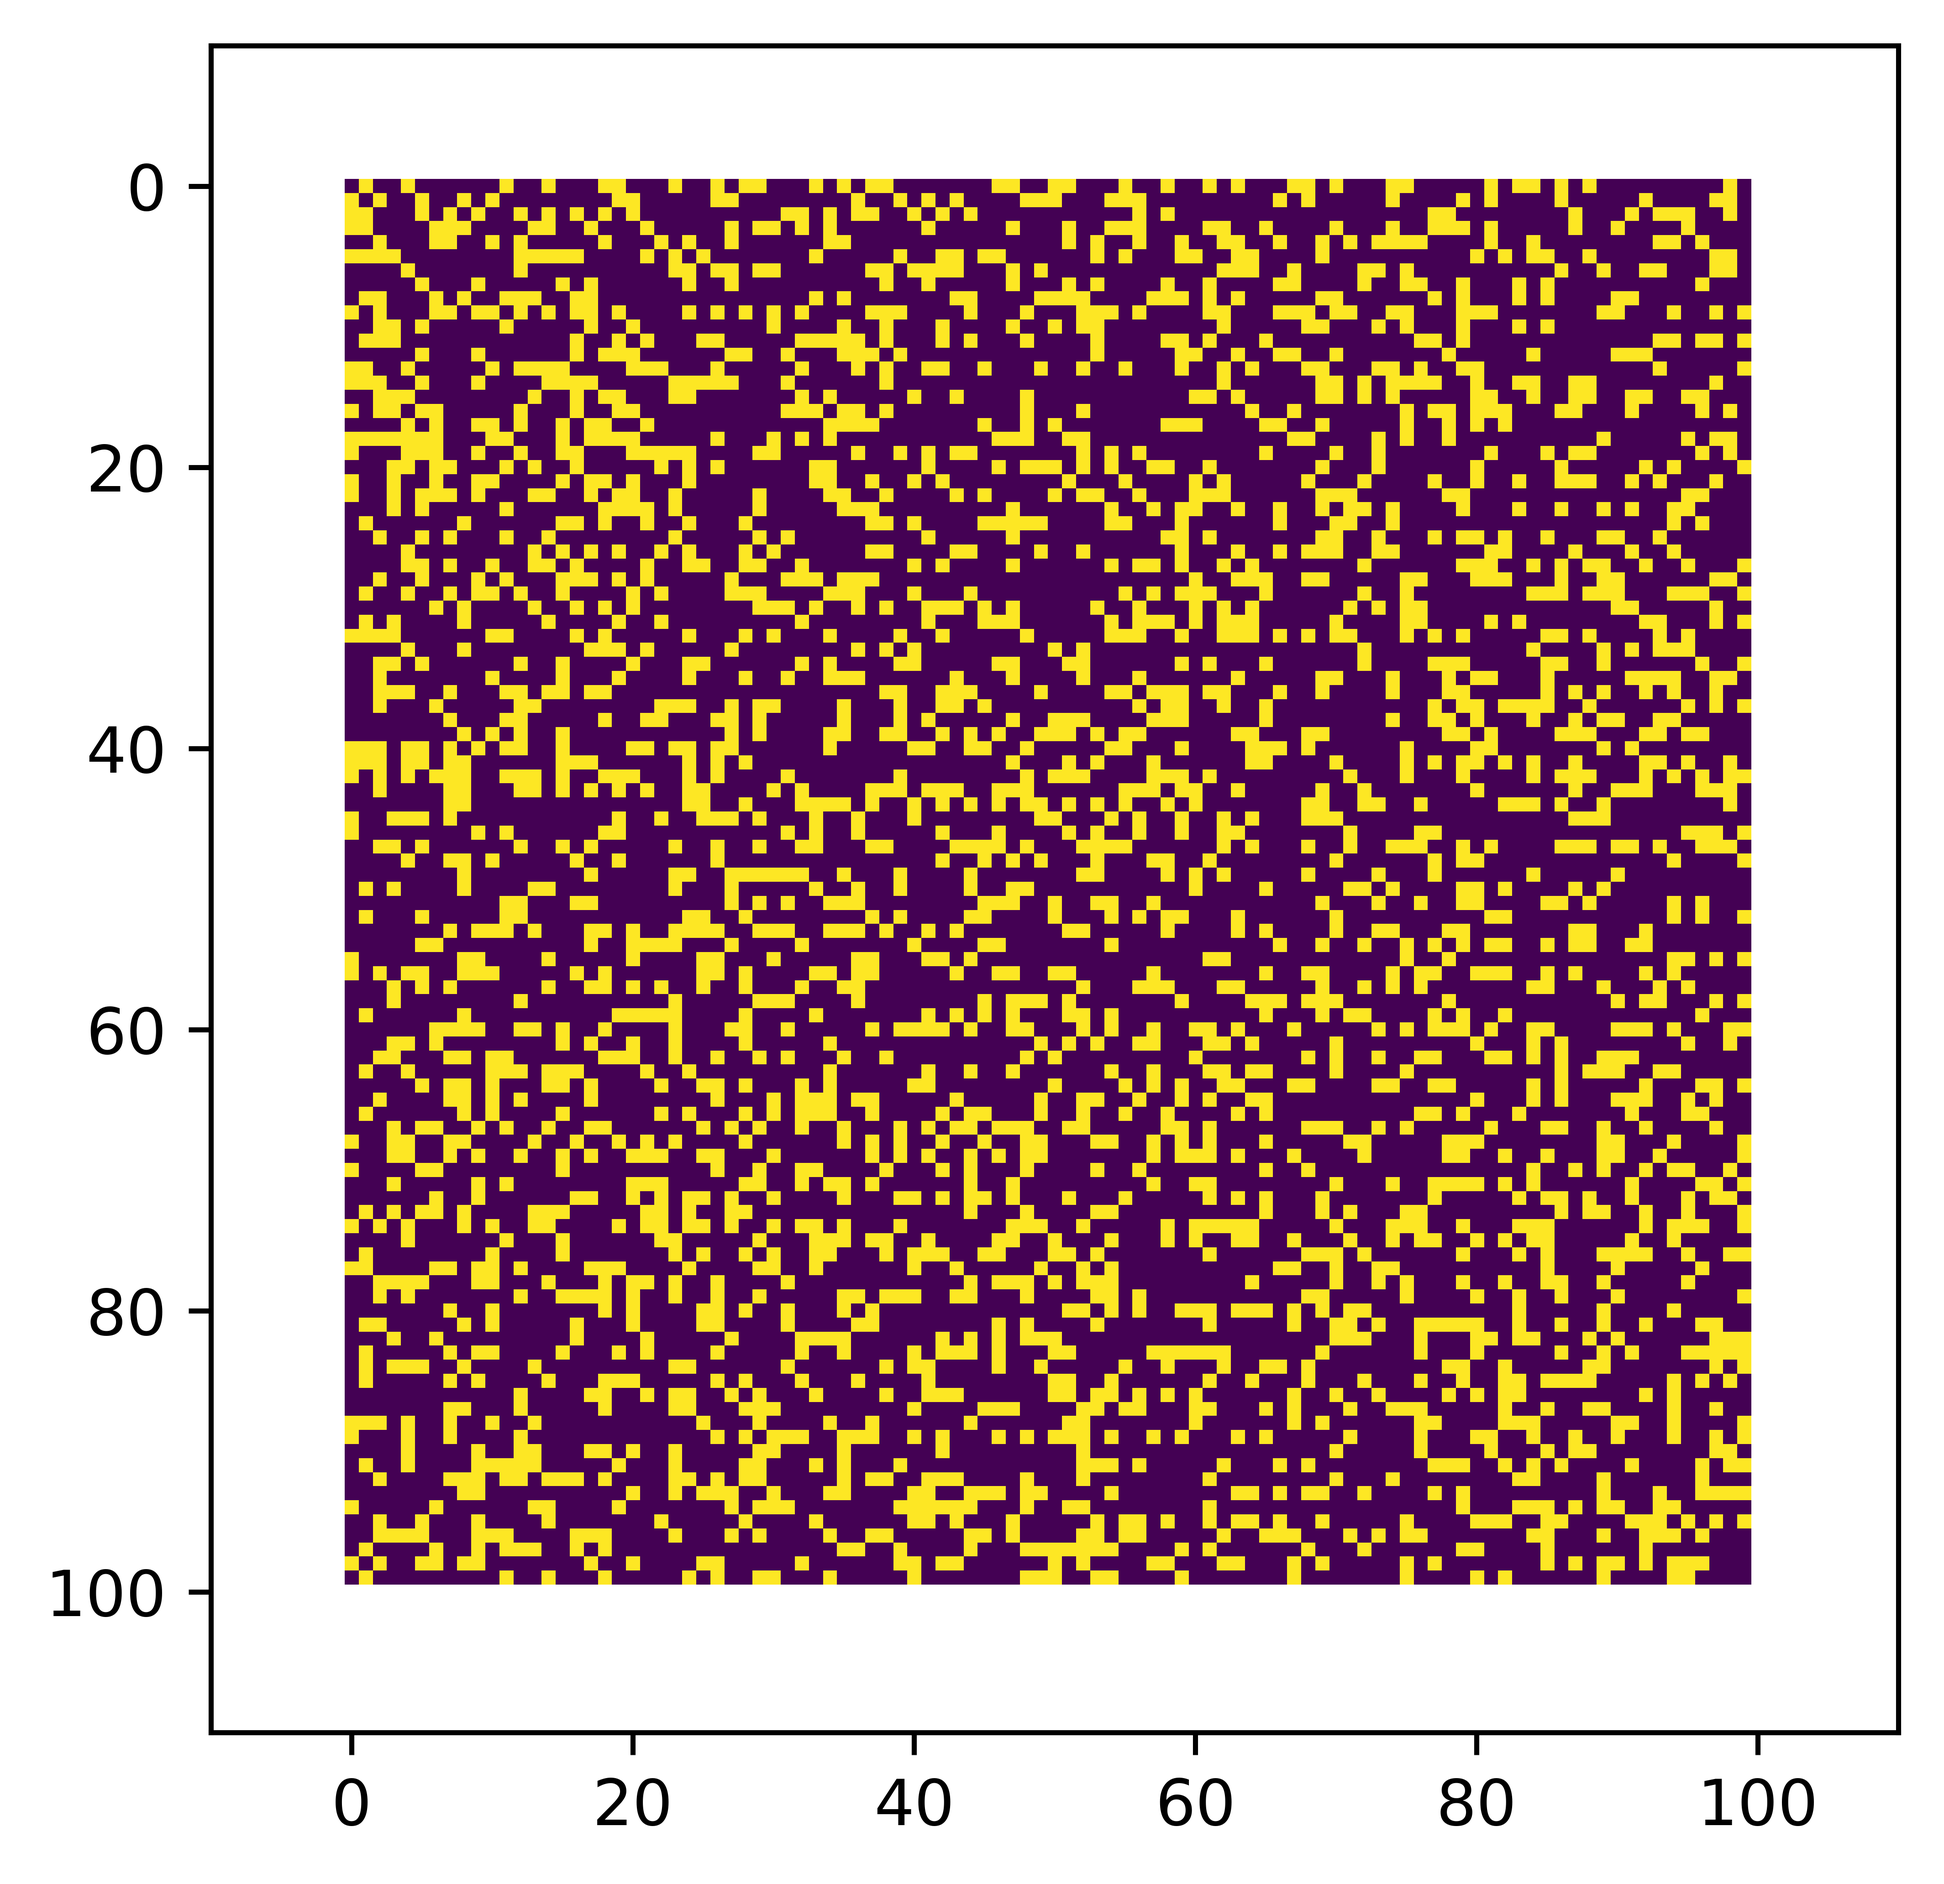
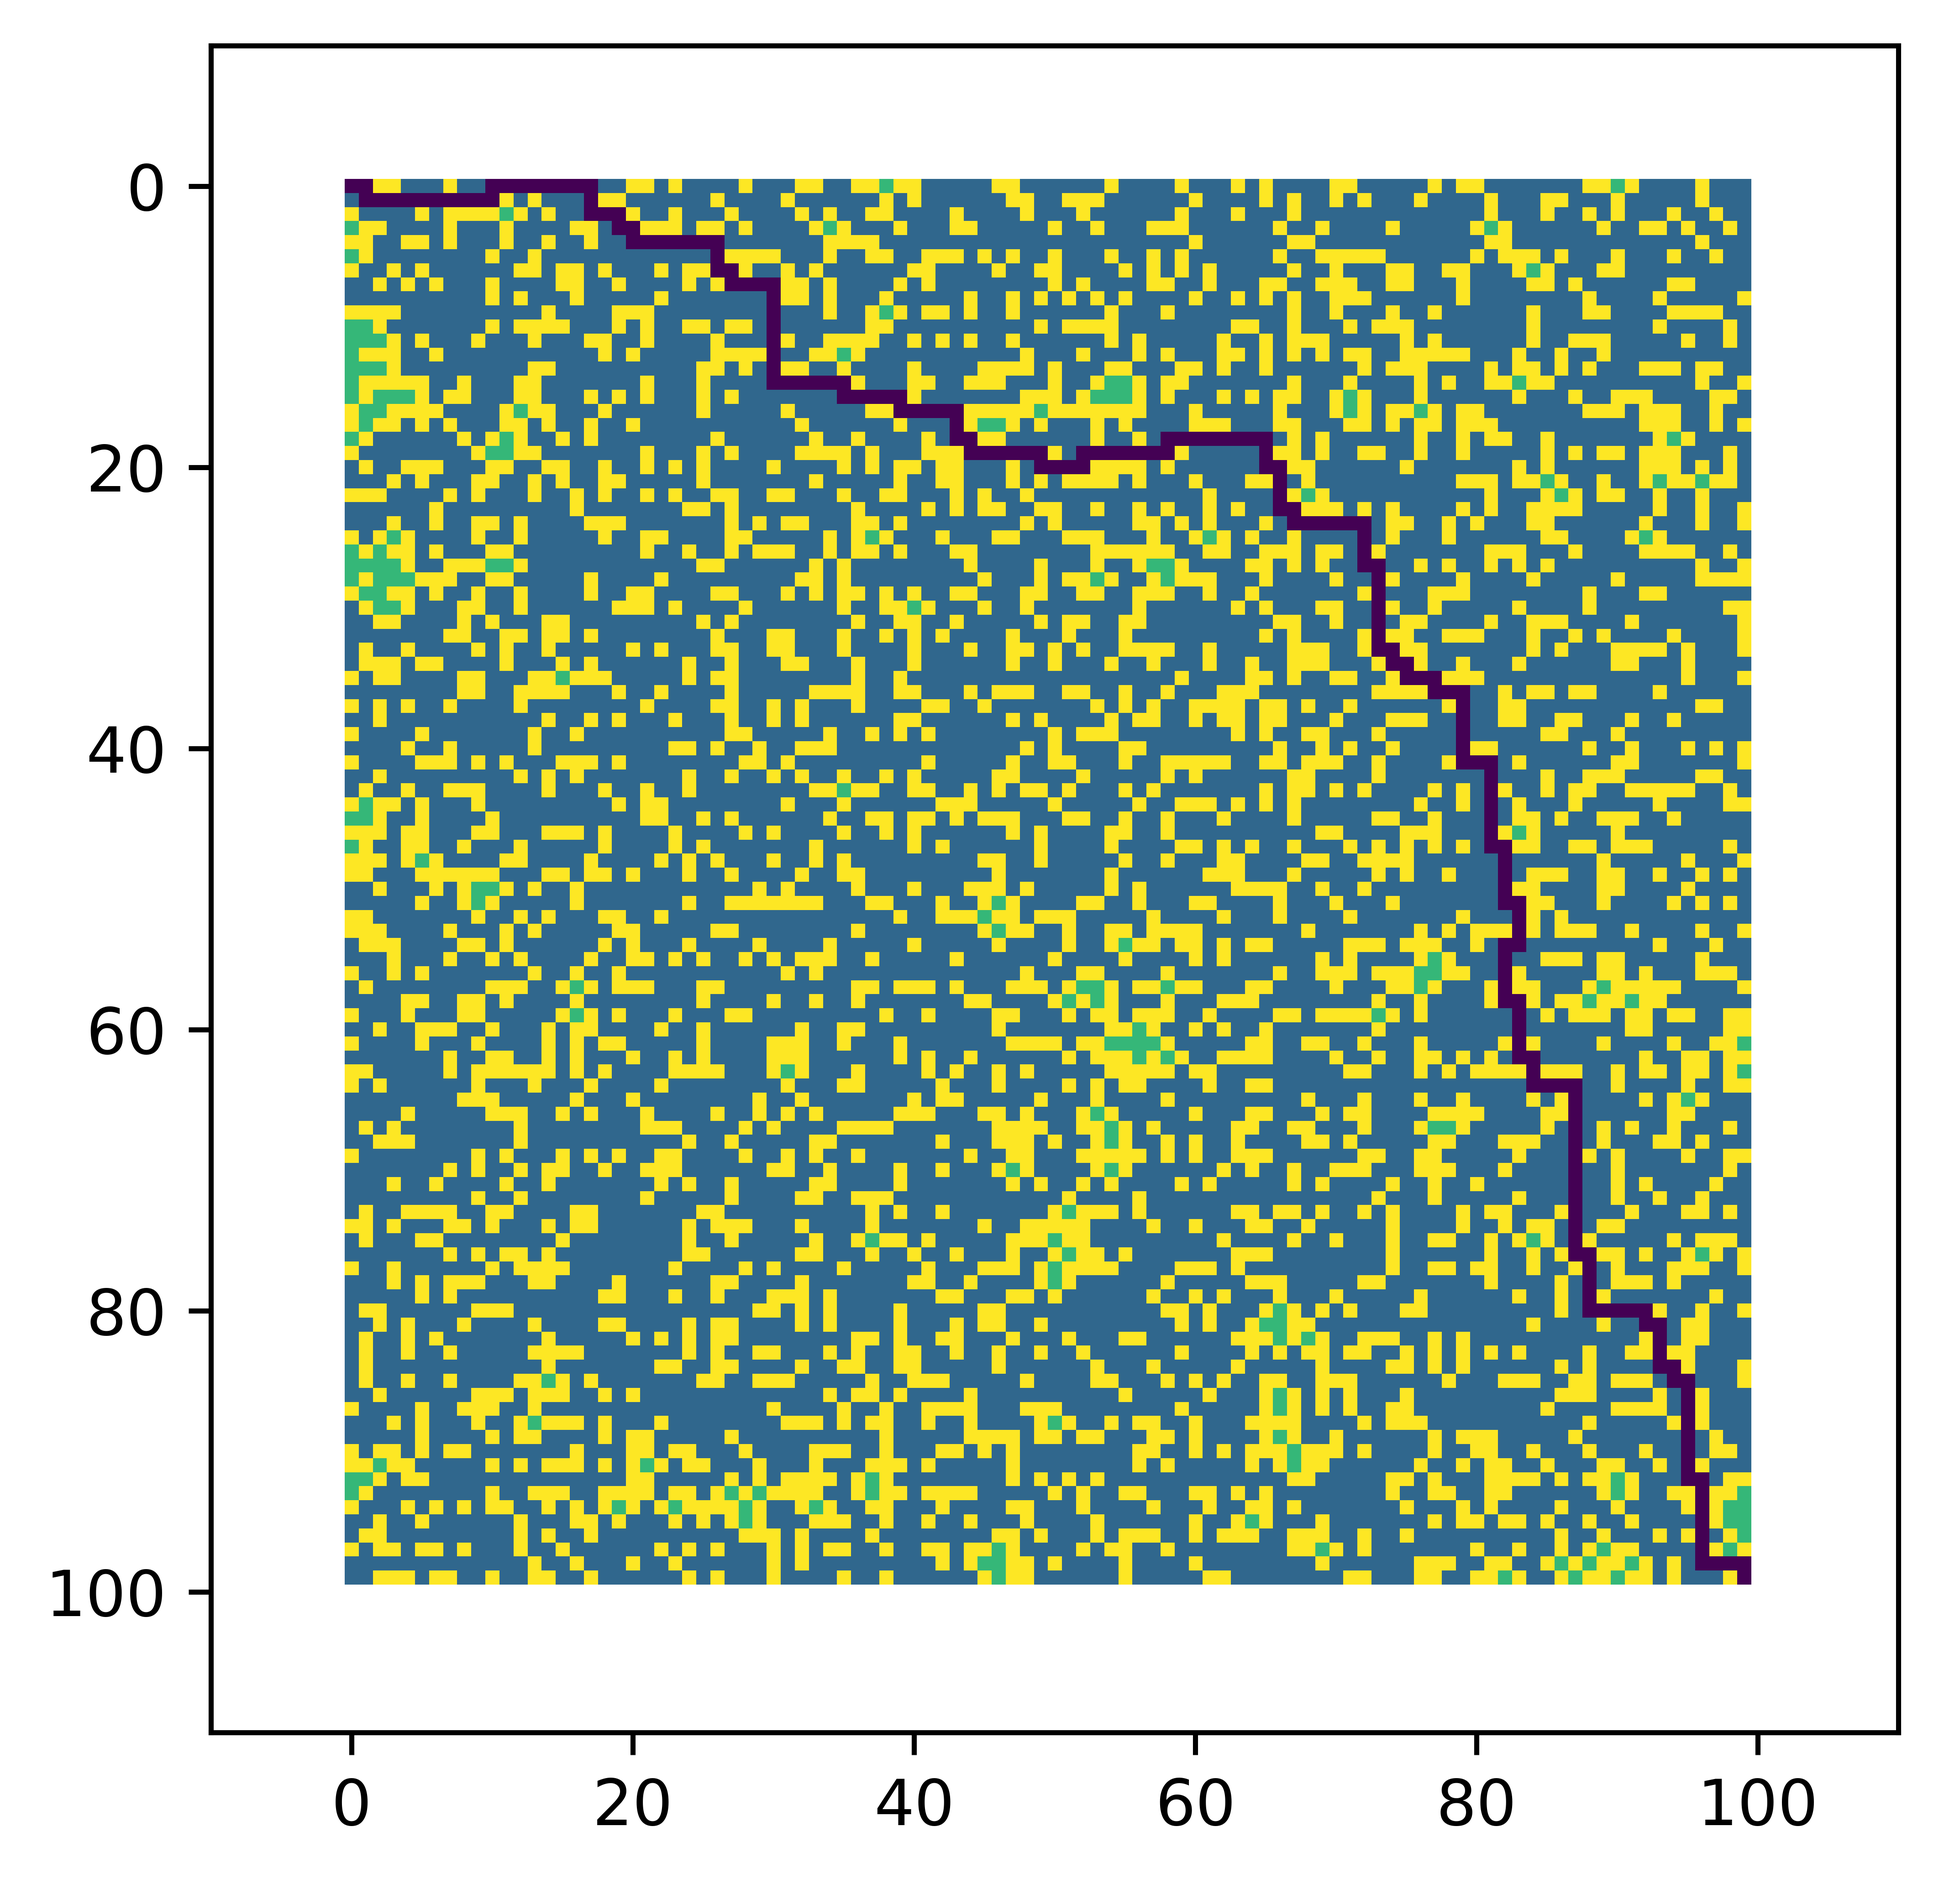
Implement breadth first search algorithm

diff --git a/search_algorithms/bread_first_search.py b/search_algorithms/bread_first_search.py
@@ -1,0 +1,142 @@
+import matplotlib.pyplot as plt
+from util.maze_plotter import maze_plotter
+from util.traversable_neighbors import traversable_neighbors
+import numpy as np
+from collections import deque
+
+def bfs_path(bfs_maze, cur_node, bfs_parent):
+    """
+    Traces back and marks the shortest path from the destination node to the source node 
+    in a BFS (Breadth-First Search) explored maze and visualizes the result.
+
+    Parameters:
+    bfs_maze (ndarray): An n x n matrix representing the maze, where different values 
+                        indicate walls, open paths, or visited cells.
+    cur_node (tuple): The coordinates (row, col) of the last node reached before 
+                      finding the destination.
+    bfs_parent (list of list of tuples): A matrix of the same dimensions as bfs_maze 
+                                         that stores the parent (previous node) 
+                                         of each cell in the shortest path.
+
+    Functionality:
+    - Marks the start and destination nodes distinctly.
+    - Traces back from the destination to the source using bfs_parent.
+    - Counts and prints the path length.
+    - Visualizes the marked path.
+
+    Returns:
+    None
+    """
+
+    # Mark the destination node with a special identifier (-2) to highlight it in the visualization.
+    bfs_maze[len(bfs_maze)-1, len(bfs_maze)-1] = -2
+
+    # Mark the source node with the same identifier to differentiate it in the visualization.
+    bfs_maze[0,0] = -2
+
+    # Initialize path length count (including the source and destination).
+    count = 2
+    temp_node = cur_node # Start backtracking from the destination node.
+
+    # Trace the path backward from the destination node to the source node.
+    while temp_node != (0,0):
+
+        # Mark the current node as part of the shortest path.
+        bfs_maze[temp_node] = -2
+        (i,j) = temp_node
+
+        # Move to the parent node of the current node.
+        temp_node = bfs_parent[i][j]
+
+        # Increment path length count.
+        count += 1
+
+    # Output the total number of nodes in the shortest path.
+    print("Path length : ",count)
+
+    # Visualize the marked path using maze_plotter.
+    maze_plotter(bfs_maze,"bfs")
+    return
+
+
+def breadth_first_search(bfs_maze,display=True):
+    """
+    Performs Breadth-First Search (BFS) to find the shortest path from the source 
+    (top-left) to the destination (bottom-right) in a given maze.
+
+    Parameters:
+    bfs_maze (ndarray): An n x n matrix representing the maze, where different values 
+                        indicate walls, open paths, or visited cells.
+    display (bool): If True, visualizes the search process and the path (default: True).
+
+    Functionality:
+    - Implements BFS using a queue to explore the shortest path.
+    - Tracks visited nodes and stores parent-child relationships to reconstruct the path.
+    - If a path is found, it optionally visualizes the result.
+    - If no path is found, it displays the explored maze.
+
+    Returns:
+    int: 1 if a path is found, 0 if no path exists.
+    """
+
+    # Define the source (starting point) and destination (goal).
+    source, destination = (0,0), (len(bfs_maze)-1, len(bfs_maze)-1)
+
+    # Create a copy of the maze to avoid modifying the original.
+    bfs_maze=bfs_maze.copy()
+
+    # Initialize the BFS queue with the source node.
+    bfs_queue = deque([source])
+
+    # Mark the source node as visited (-1).
+    bfs_maze[source] = -1
+
+    # Flag to track if a path to destination is found.
+    pathFound = 0
+
+    # Matrix to store parent nodes for reconstructing the path.
+    bfs_parent = [[None for _ in range(len(bfs_maze))] for _ in range(len(bfs_maze))]
+
+    """
+    Continue BFS until:
+    1. The queue becomes empty, meaning all possible nodes have been explored 
+       without reaching the destination.
+    2. A path to the destination is found, breaking the loop early.
+    """
+    while len(bfs_queue) != 0 and pathFound == 0:
+
+        # Dequeue the first node in FIFO order (BFS characteristic).
+        cur_node = bfs_queue.popleft()
+        bfs_maze[cur_node] = -2 # Temporarily mark as processing.
+
+        # Get all valid neighbors that can be traversed.
+        neighbors = traversable_neighbors(bfs_maze, cur_node)
+
+        # Iterate through the neighbors to continue the BFS.
+        if len(neighbors) != 0:
+            for node in neighbors:
+                (i,j) = node
+                if node == destination:
+                    # If the destination is found, set the flag and exit.
+                    pathFound = 1
+                    if display:
+                        # If visualization is enabled, plot the discovered path.
+                        bfs_path(bfs_maze, cur_node, bfs_parent)
+                        break
+                    return 1
+                
+                 # If the neighbor hasn't been visited, mark its parent and add to queue.
+                if bfs_parent[i][j] == None:
+                    bfs_parent[i][j] = cur_node
+                    bfs_queue.append(node)
+
+        # Mark the current node as visited (-1).
+        bfs_maze[cur_node] = -1
+
+    # If the loop completes without finding a path, return failure.
+    if pathFound == 0:
+        if display:
+            # If visualization is enabled, display the explored maze.
+            print("No Path Found :(")
+            maze_plotter(bfs_maze)
+        return 0

diff --git a/main.py b/main.py
@@ -1,13 +1,23 @@
 from generator.maze_generator import maze_generator
-from util.maze_plotter import maze_plot_final
+from util.maze_plotter import maze_plotter
+from search_algorithms.bread_first_search import breadth_first_search
 import sys
+
+# from search_algorithms.depth_first_search import depth_first_search
+# from search_algorithms.a_star import a_star_search
 
 def main(search_algorithm):
     if search_algorithm not in ["bfs", "dfs", "a-star"]:
         raise ValueError("Invalid search algorithm. Choose between 'bfs', 'dfs', or 'a-star'.")
 
     maze = maze_generator(100, 0.3)
-    maze_plot_final(maze, search_algorithm)
+
+    if search_algorithm == "bfs":
+        path = breadth_first_search(maze)
+    # elif search_algorithm == "dfs":
+    #     path = depth_first_search(maze)
+    # elif search_algorithm == "a-star":
+    #     path = a_star_search(maze)
 
 if __name__ == "__main__":
     if len(sys.argv) != 2:

diff --git a/util/maze_plotter.py b/util/maze_plotter.py
@@ -1,6 +1,6 @@
 import matplotlib.pyplot as plt
 
-def maze_plot_final(maze, search_algorithm):
+def maze_plotter(maze, search_algorithm):
     """
     Plots the final state of the maze and saves the plot as an image file.
 
